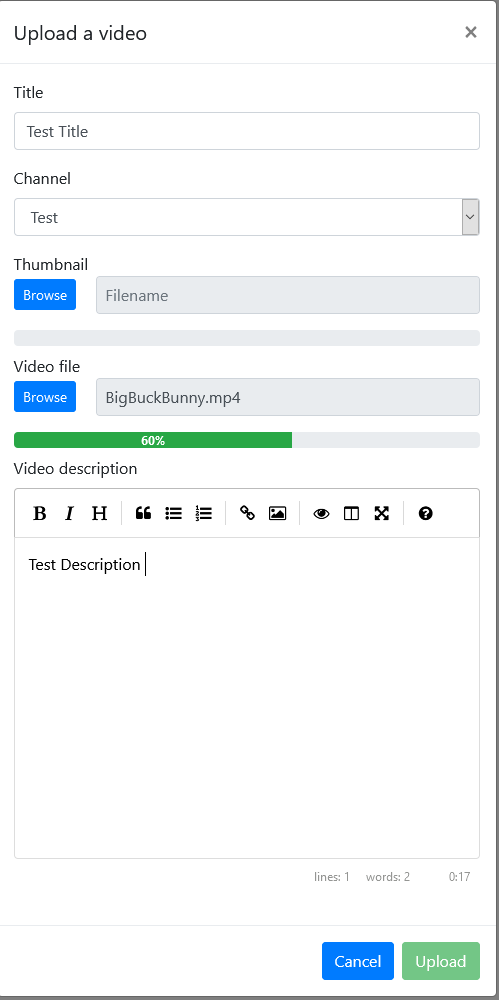
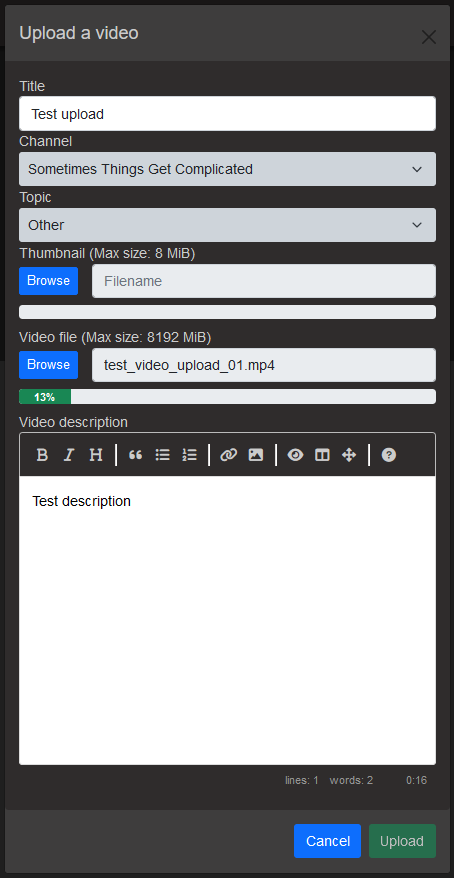
Changes to 'Uploading Video' section

diff --git a/docs/usage/uploadingvideo.md b/docs/usage/uploadingvideo.md
@@ -4,20 +4,24 @@ OSP provides the ability for Users to upload video directly to the system withou
 ## Setup
 To upload video to OSP, a few settings must be configured by the Administrator
 
-Under Admin -> Settings, the "Allow Users to Upload Video" setting must be enabled.
-Users which will be uploading video must be granted the Uploader Role under Admin -> Users
+Under Admin -> Settings, the "Enable Uploads" setting must be enabled.
+Users which will be uploading video must be granted the Uploader Role under Admin -> Users.
+
+Additionally, the "Maximum Video Upload File Size (MiB)" and "Maximum Video Thumbnail File Size (MiB)" settings can be configured to specify the file size limit (in MiB) of videos and thumbnails to be uploaded. They must each have a value no less than 1 MiB.
+
+Already uploaded videos and thumbnails whose sizes happen to exceed the current size limits will not be automatically deleted.
 
 ## Limitations
 - Users must have a channel setup prior to uploading
 - Videos must be in H.264 MP4 fomat
-- Videos must be 4 GB or less
+- Videos must be no bigger than the site's "Maximum Video Upload File Size (MiB)" limit.
 
 ## How to Upload
-1) Click on your username in the upper right corner and click "Upload Video"
-![Upload Video Menu Dropdown](../_images/upload_video_menu_dropdown.png)
+1) Click on this "Upload" button in the top-right bar to show the Video Upload modal
+![Upload Video Button](../_images/video_upload_button.png)
 
 2) Add A Title, Select your Channel, and Add a Video File. Thumbnail and Description are optional. If no thumbnail is added, one will be generated automatically. Click Upload when you are Done.
 ![Upload Video Metadata Modal](../_images/upload_video_modal.png)
 
-3) If the video upload is successful, the new Video page will open automatically.
-![Upload Video Redirect Screen](../_images/upload_video_final.png)
+3) If the video upload is successful, a notification will appear stating the video upload is queued for processing. Eventually, the video will show up in your channel's Video list when the upload is complete.
+![Upload Video Queued Notification](../_images/video_upload_queued.png)
